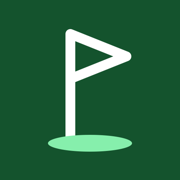
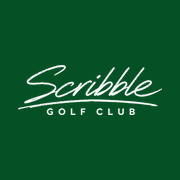
Brand the app as Scribble Golf Club
New name in the title, home-screen label and manifest; the Scribble logo
on sign-in and home; app icons are the white logo on the logo green
(#065025), which is now the app theme color.

Changed region(s): [[0.0833, 0.1389, 0.8889, 0.8611], [0.8889, 0.4722, 0.9167, 0.5]]

diff --git a/vite.config.js b/vite.config.js
@@ -12,12 +12,12 @@ export default defineConfig(({ command }) => ({
     react(),
     VitePWA({
       registerType: 'autoUpdate',
-      includeAssets: ['icon.svg', 'apple-touch-icon.png'],
+      includeAssets: ['favicon.png', 'apple-touch-icon.png', 'logo.png'],
       manifest: {
-        name: 'Golf App',
-        short_name: 'Golf',
+        name: 'Scribble Golf Club',
+        short_name: 'Scribble',
         description: 'Score your round and settle your bets.',
-        theme_color: '#14532d',
+        theme_color: '#065025',
         background_color: '#f6f7f2',
         display: 'standalone',
         orientation: 'portrait',
@@ -25,8 +25,7 @@ export default defineConfig(({ command }) => ({
         icons: [
           { src: 'icon-192.png', sizes: '192x192', type: 'image/png' },
           { src: 'icon-512.png', sizes: '512x512', type: 'image/png' },
-          { src: 'icon-512.png', sizes: '512x512', type: 'image/png', purpose: 'maskable' },
-          { src: 'icon.svg', sizes: 'any', type: 'image/svg+xml' },
+          { src: 'icon-maskable-512.png', sizes: '512x512', type: 'image/png', purpose: 'maskable' },
         ],
       },
       workbox: {

diff --git a/index.html b/index.html
@@ -2,14 +2,14 @@
 <html lang="en">
   <head>
     <meta charset="UTF-8" />
-    <link rel="icon" type="image/svg+xml" href="/icon.svg" />
+    <link rel="icon" type="image/png" href="/favicon.png" />
     <meta name="viewport" content="width=device-width, initial-scale=1.0, viewport-fit=cover" />
-    <meta name="theme-color" content="#14532d" />
+    <meta name="theme-color" content="#065025" />
     <meta name="apple-mobile-web-app-capable" content="yes" />
     <link rel="apple-touch-icon" href="/apple-touch-icon.png" />
-    <meta name="apple-mobile-web-app-title" content="Golf" />
+    <meta name="apple-mobile-web-app-title" content="Scribble" />
     <meta name="apple-mobile-web-app-status-bar-style" content="default" />
-    <title>Golf App</title>
+    <title>Scribble Golf Club</title>
   </head>
   <body>
     <div id="root"></div>

diff --git a/src/components/LeagueHome.jsx b/src/components/LeagueHome.jsx
@@ -18,7 +18,7 @@ export default function LeagueHome({ data, me, reload, onOpenEvent, onEditFormat
   const { league, members, events } = data;
 
   async function share() {
-    const text = `Join "${league.name}" on Golf App: open https://odaymia.github.io/golf-app/ and enter code ${league.code}`;
+    const text = `Join "${league.name}" on Scribble Golf Club: open https://odaymia.github.io/golf-app/ and enter code ${league.code}`;
     try {
       if (navigator.share) await navigator.share({ text });
       else {

diff --git a/src/components/Home.jsx b/src/components/Home.jsx
@@ -32,7 +32,9 @@ export default function Home({ profile, onProfile, onNew, onOpen, onOpenLeague, 
         </button>
       </div>
       <header className="hero">
-        <h1>Golf App</h1>
+        <h1 className="brand">
+          <img className="brand-logo" src={`${import.meta.env.BASE_URL}logo.png`} alt="Scribble Golf Club" />
+        </h1>
         <p>Score the round. Settle the bets.</p>
       </header>
       <button className="btn btn-primary btn-xl" onClick={onNew}>

diff --git a/src/styles.css b/src/styles.css
@@ -1,6 +1,6 @@
 :root {
-  --green: #14532d;
-  --green-2: #166534;
+  --green: #065025; /* Scribble logo green */
+  --green-2: #0b6b33;
   --green-soft: #dcfce7;
   --bg: #f6f7f2;
   --card: #ffffff;
@@ -1144,4 +1144,15 @@ button.sticky-bottom.btn {
   text-align: center;
   font-weight: 800;
   font-size: 18px;
+}
+
+.brand {
+  margin: 0 auto 6px;
+  max-width: 300px;
+}
+
+.brand-logo {
+  display: block;
+  width: 100%;
+  height: auto;
 }

diff --git a/src/components/SignIn.jsx b/src/components/SignIn.jsx
@@ -42,7 +42,9 @@ export default function SignIn() {
   return (
     <div className="screen signin">
       <header className="hero">
-        <h1>Golf App</h1>
+        <h1 className="brand">
+          <img className="brand-logo" src={`${import.meta.env.BASE_URL}logo.png`} alt="Scribble Golf Club" />
+        </h1>
         <p>Score the round. Settle the bets.</p>
       </header>
 

diff --git a/CLAUDE.md b/CLAUDE.md
@@ -1,6 +1,6 @@
-# Golf App (working name)
+# Scribble Golf Club
 
-A golf app for leagues, daily tournaments, and foursomes playing betting games
+Scribble Golf Club (repo `golf-app`) is a golf app for leagues, daily tournaments, and foursomes playing betting games
 on the course. Goal: everything Golf Genius does, but far easier to use. Ships
 with a website (marketing page + public league/event pages).
 
@@ -46,8 +46,10 @@ Actions). A failing test blocks the deploy.
 - Builds use the base path `/golf-app/` (`vite.config.js`); the dev server
   stays at `/`. Set `BASE_PATH=/` to build for a root domain.
 - The PWA manifest's `start_url`/`scope` and the service worker scope follow
-  the base path. Icons: `public/icon.svg`, `icon-192.png`, `icon-512.png`,
-  `apple-touch-icon.png` (iPhone home screen needs the PNG).
+  the base path. Brand: `public/logo.png` (transparent wordmark, shown on
+  sign-in and home), icons are the white logo on logo green #065025:
+  `icon-192.png`, `icon-512.png`, `icon-maskable-512.png`,
+  `apple-touch-icon.png` (iPhone home screen), `favicon.png`.
 - Install on iPhone: open the URL in Safari → Share → Add to Home Screen.
 - Updates: the service worker auto-updates, and `main.jsx` checks for a new
   version whenever the app returns to the foreground (iPhone home-screen apps
